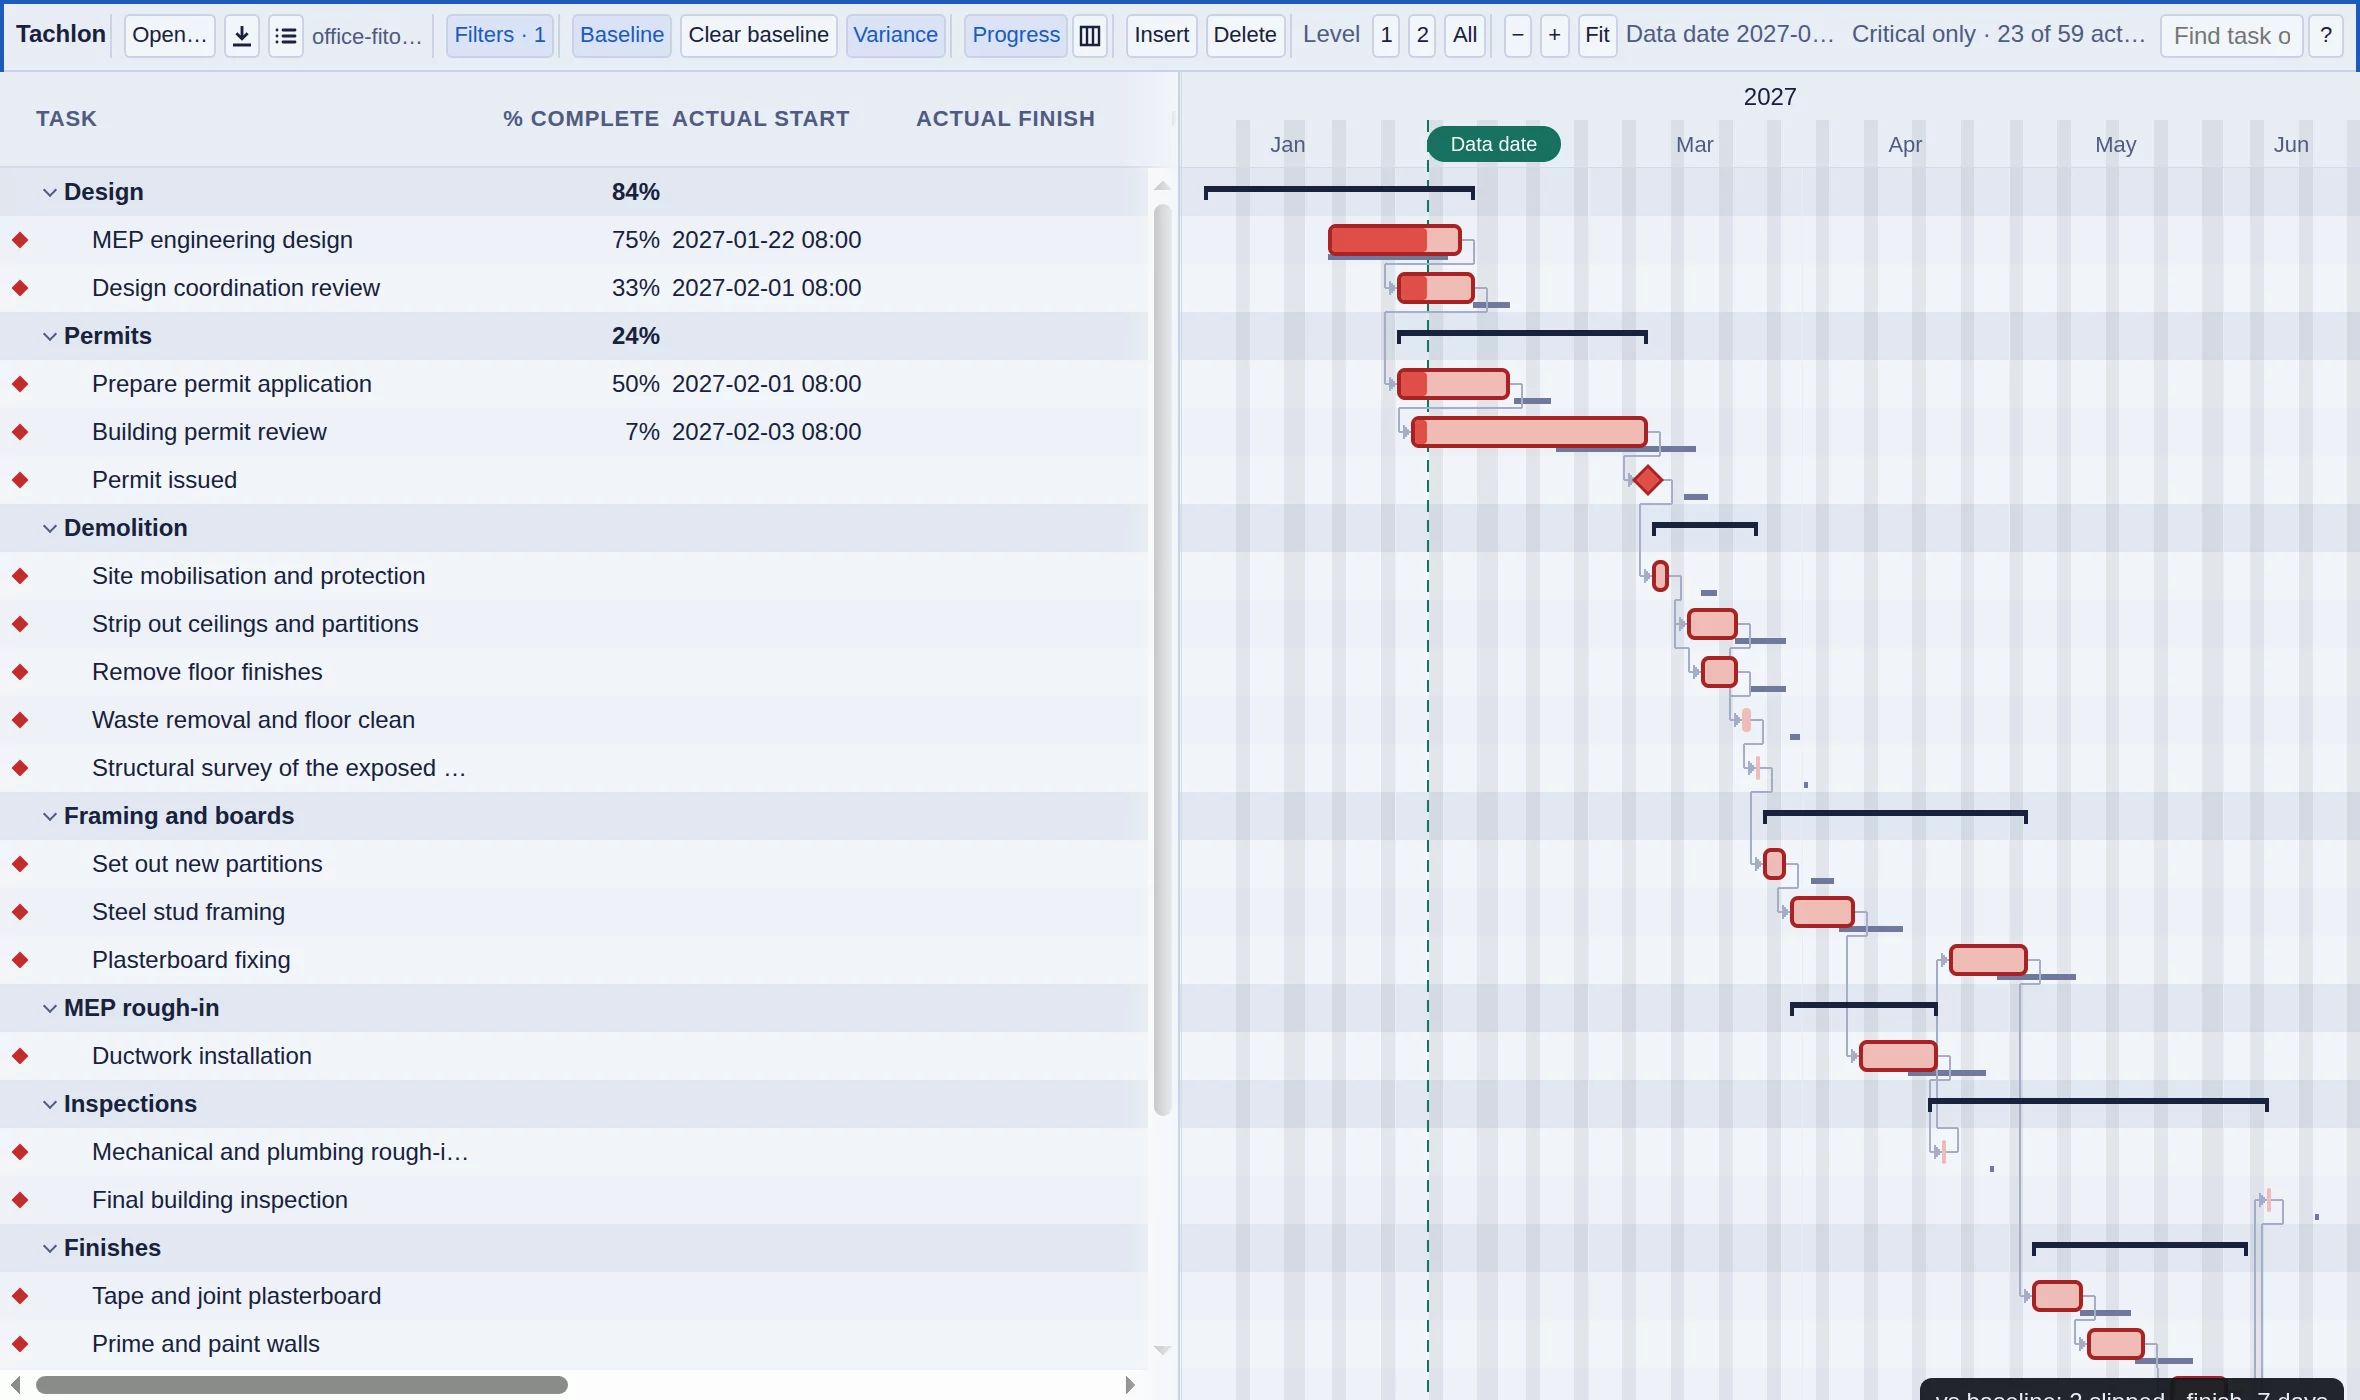
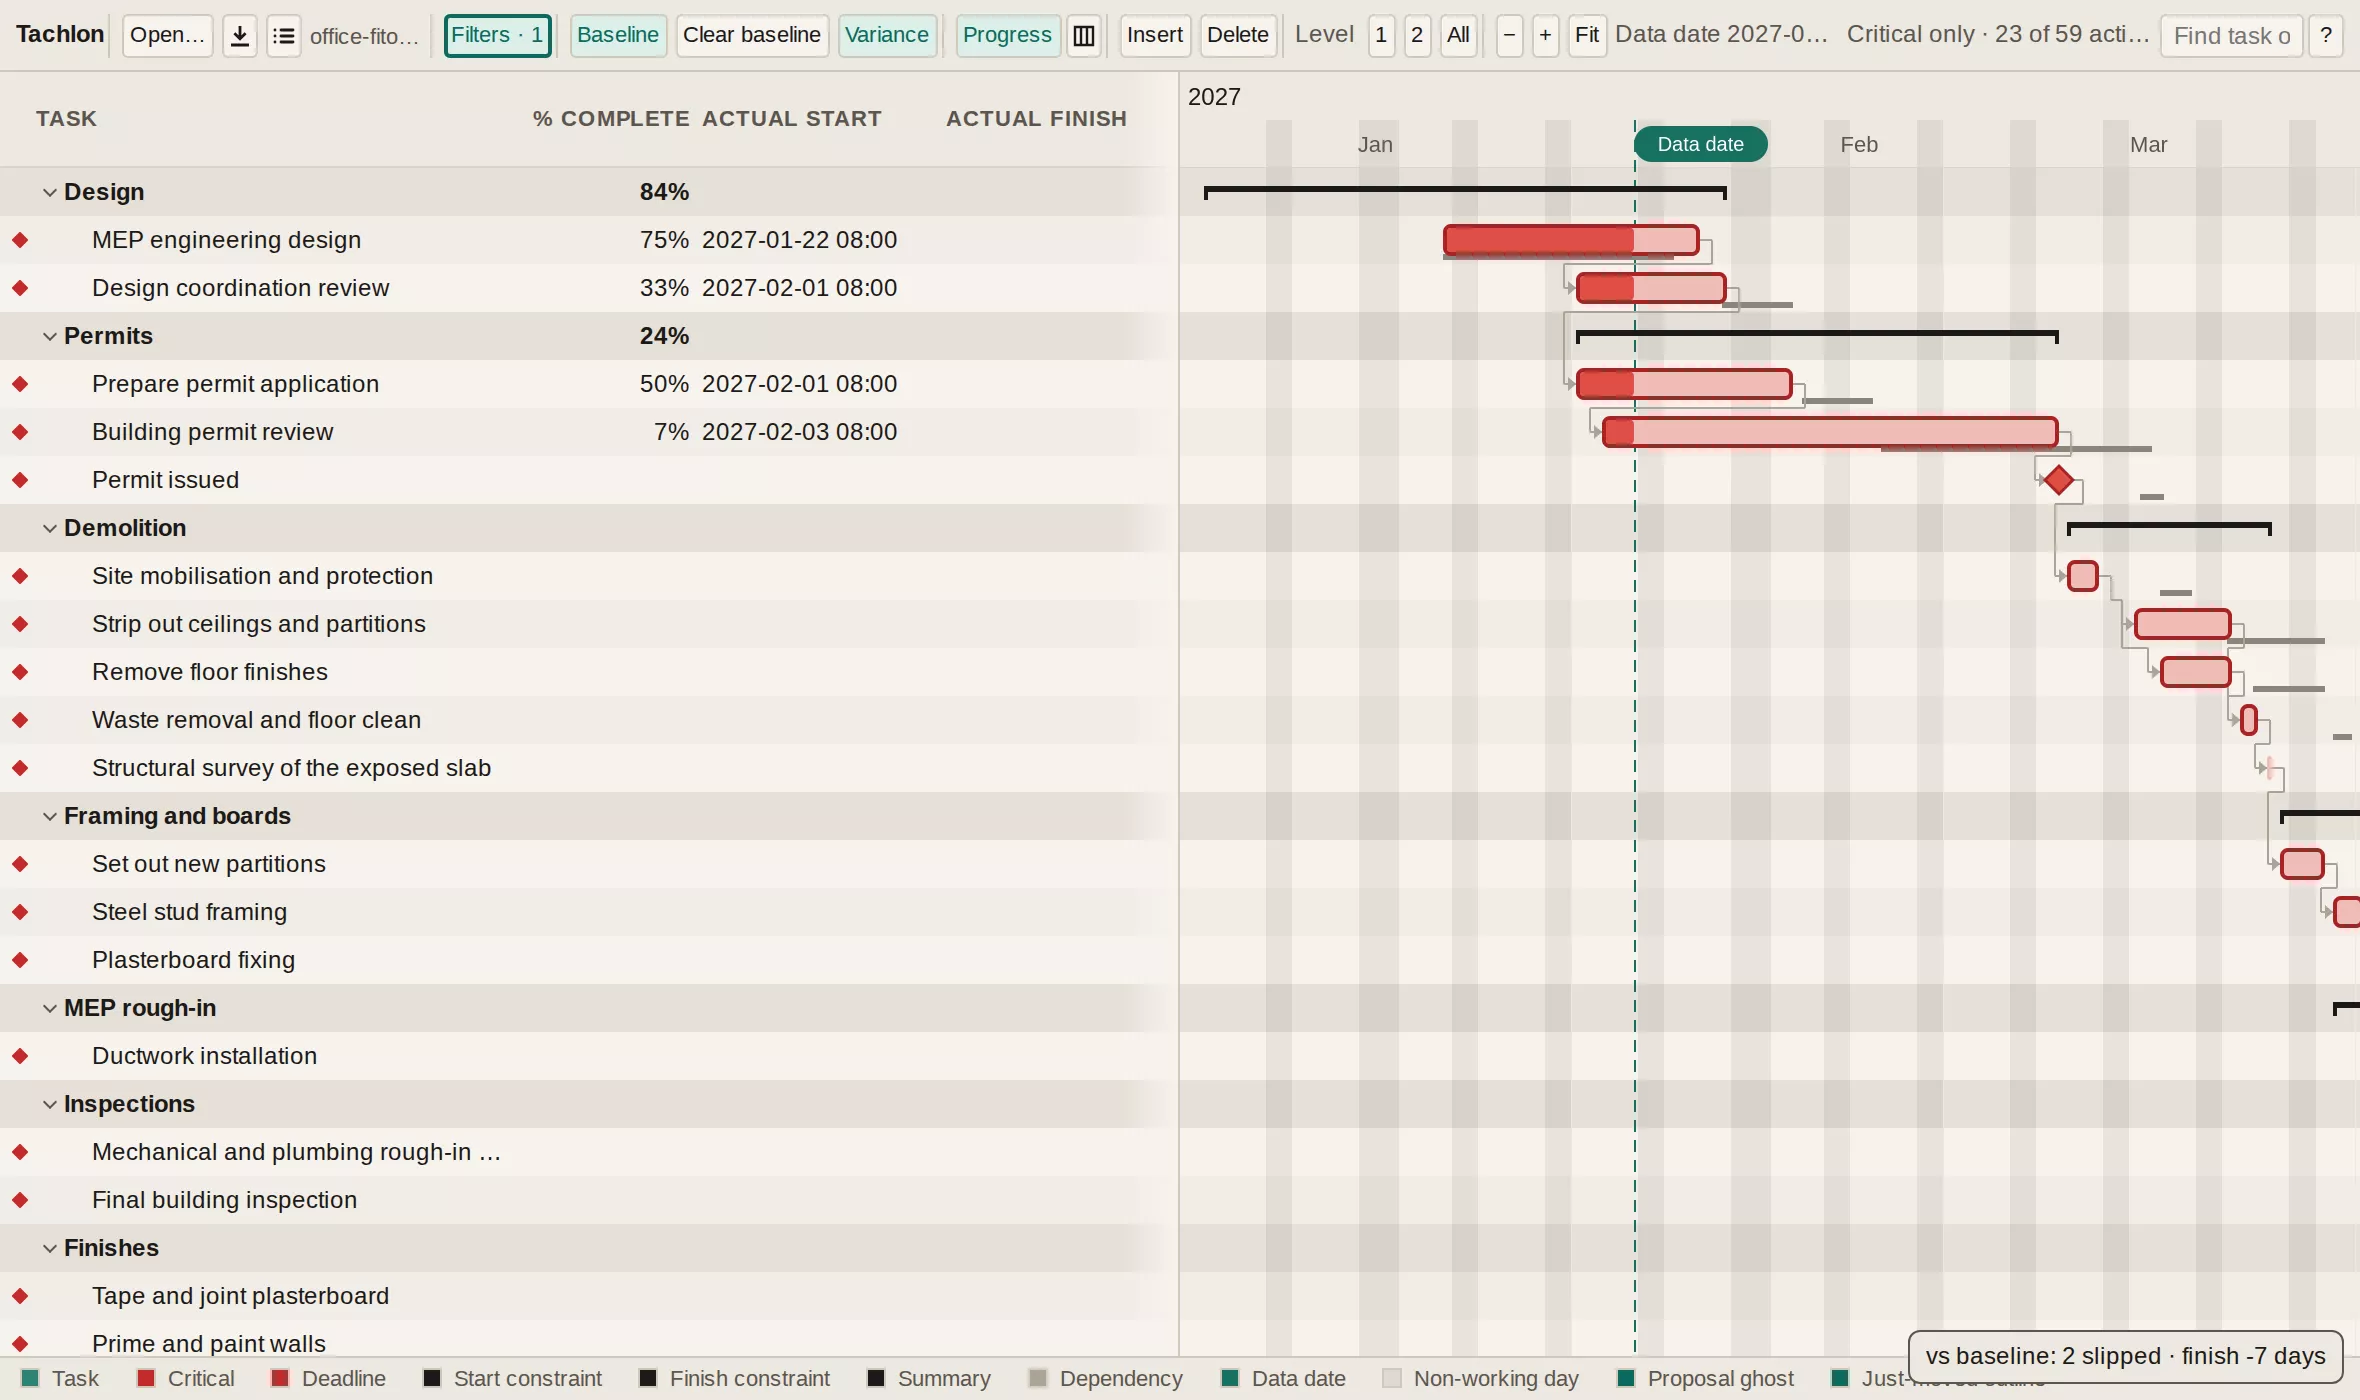
the product page pictures of the chart are regenerated by one command, in the page colors

Changed region(s): [[0.0, 0.0, 1.0, 1.0], [0.2475, 0.1229, 0.3712, 0.3379]]

diff --git a/demos/screencast/README.md b/demos/screencast/README.md
@@ -14,6 +14,7 @@ scroll, a drag or a zoom from it would misstate it.
 | A drag, a scroll, a zoom, a fling, or a caption that claims speed | The MacBook | `demos/screencast/run.sh` (the story and the feature clips) |
 | A still or near-still clip with no animation claim, such as `open-a-schedule.mp4` | The hub is fine, into a scratch folder; an agent copies it into the book by hand (see below) | `demos/screencast/clip.mjs` |
 | A book chapter still (`j2-navigate`, `j4-checks`, `j5-print`, `j6-build`, `j7-change`, `j8-progress`, `j9-save`, `keys`) | The hub is fine, into a scratch folder; copy by hand as above | `demos/screencast/stills.mjs --out <scratch dir>` (`--dry` lists the stills with no browser; `--only <still>` writes one) |
+| The product page's nine pictures of the chart (`apps/site/shots/*.webp`, not `video-poster.webp`) | The hub is fine: a still, no frame rate. It writes into `apps/site/shots` (or `--out`) at the sizes and crops the page's `<img>` tags name | `demos/screencast/site-shots.mjs` (`--dry` lists the names; `--only <name>` writes one). It takes the chart's colors from the two `.gantt[data-theme]` rules in `apps/site/home.css`, so a change to the page's identity is one run |
 | A draft you look at and throw away | The hub, into a folder outside `book/src/media` | `demos/screencast/run.sh --local` writes `demos/screencast/draft/` |
 
 Two guards keep a hub recording of motion out of the repo:
